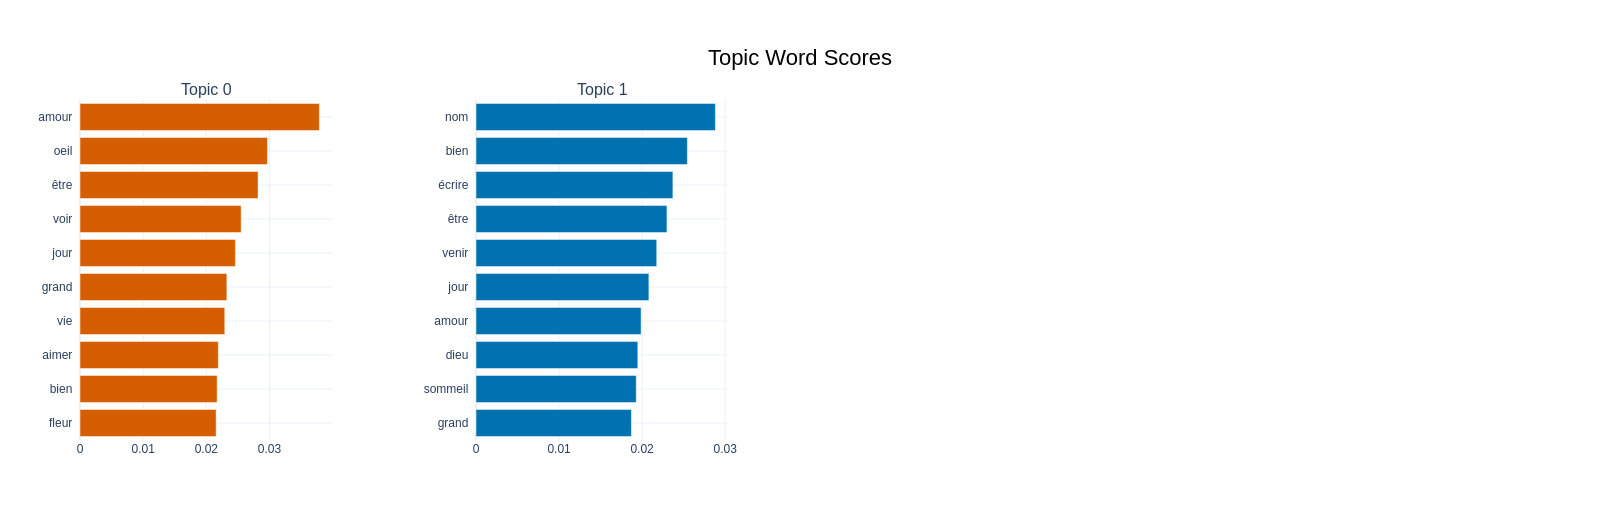
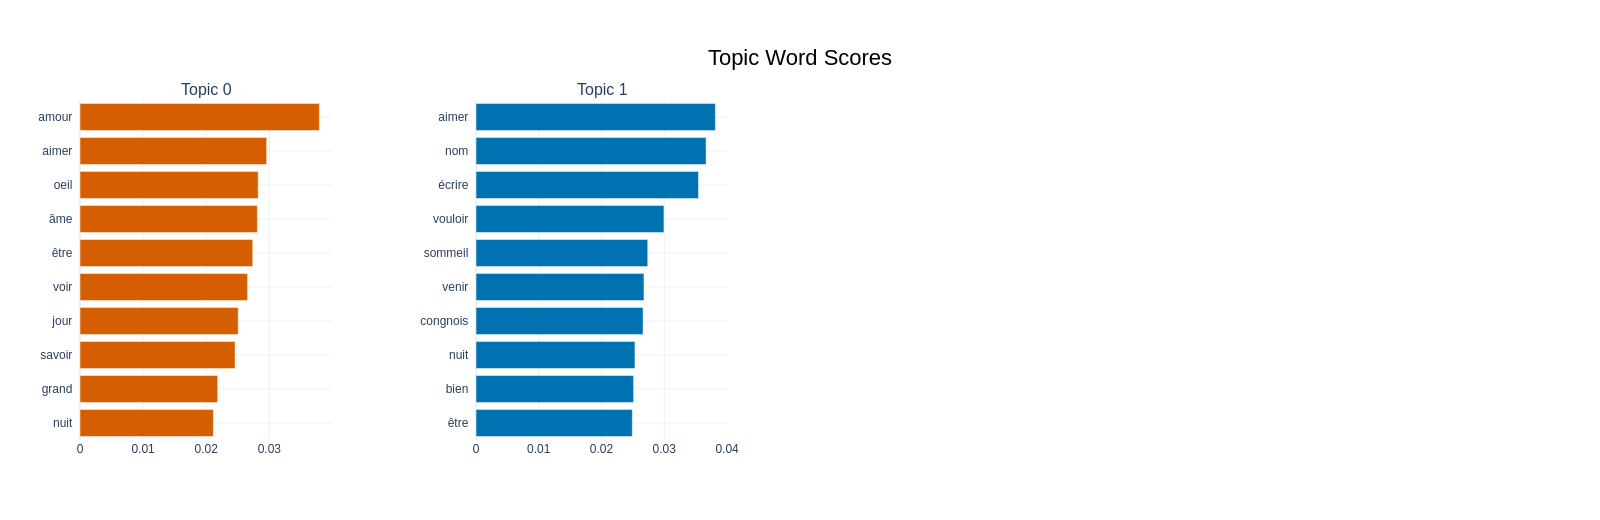
novo bertopic

diff --git a/modelagemTopicos/bertopic3.py b/modelagemTopicos/bertopic3.py
@@ -125,7 +125,7 @@ if __name__ == '__main__':
     # Carrega stopwords e adiciona termos personalizados
     stopwords_personalizadas = set(stopwords.words(idioma_nltk))
     if IDIOMA_PROC == "fr_XX":
-        stopwords_personalizadas.update(["le", "la", "les", "un", "une", "jean", "john", "kaku", "lorsqu", "jusqu", "sai"])
+        stopwords_personalizadas.update(["le", "la", "les", "un", "une", "jean", "john", "kaku", "lorsqu", "jusqu", "sai", "congnois"])
     elif IDIOMA_PROC == "pt_XX":
         stopwords_personalizadas.update(["o", "a", "os", "as", "um", "uma", "eu", "tu", "ele", "ela", "nós", "vós", "eles", "elas", "voce", "nao"])
     elif IDIOMA_PROC == "en_XX":
